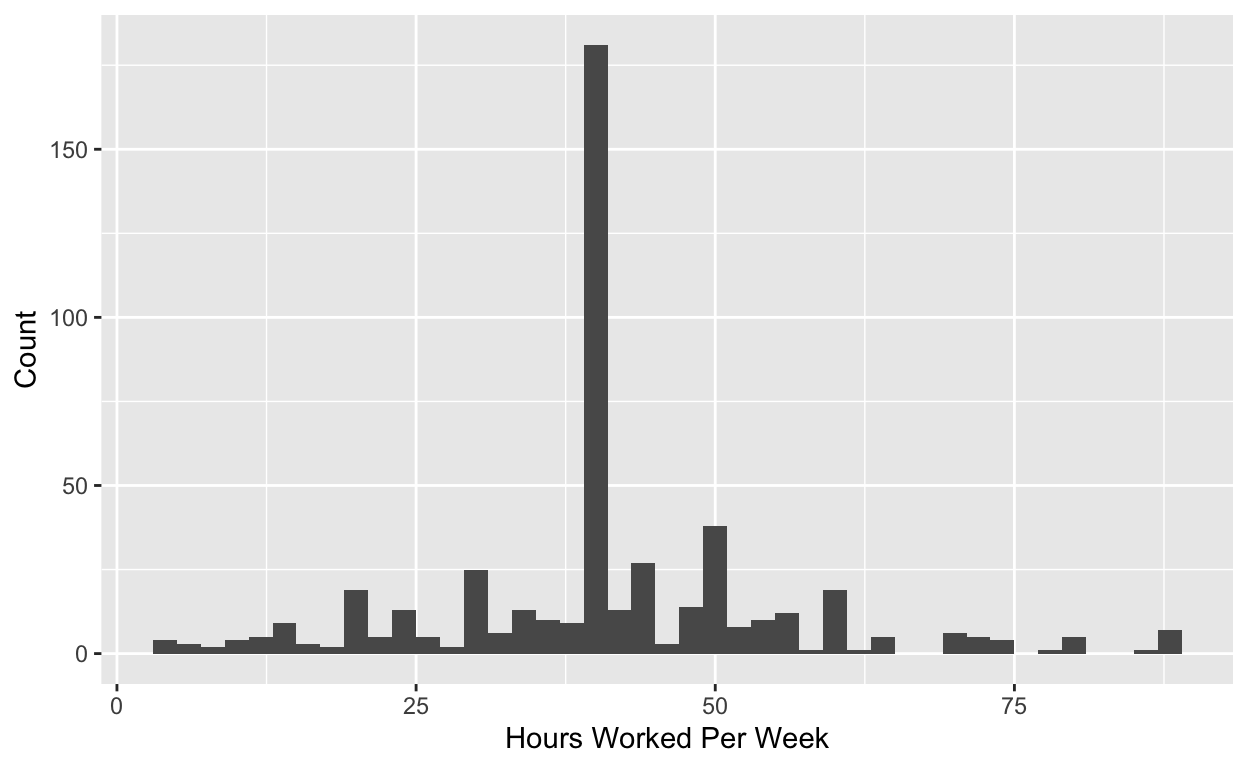
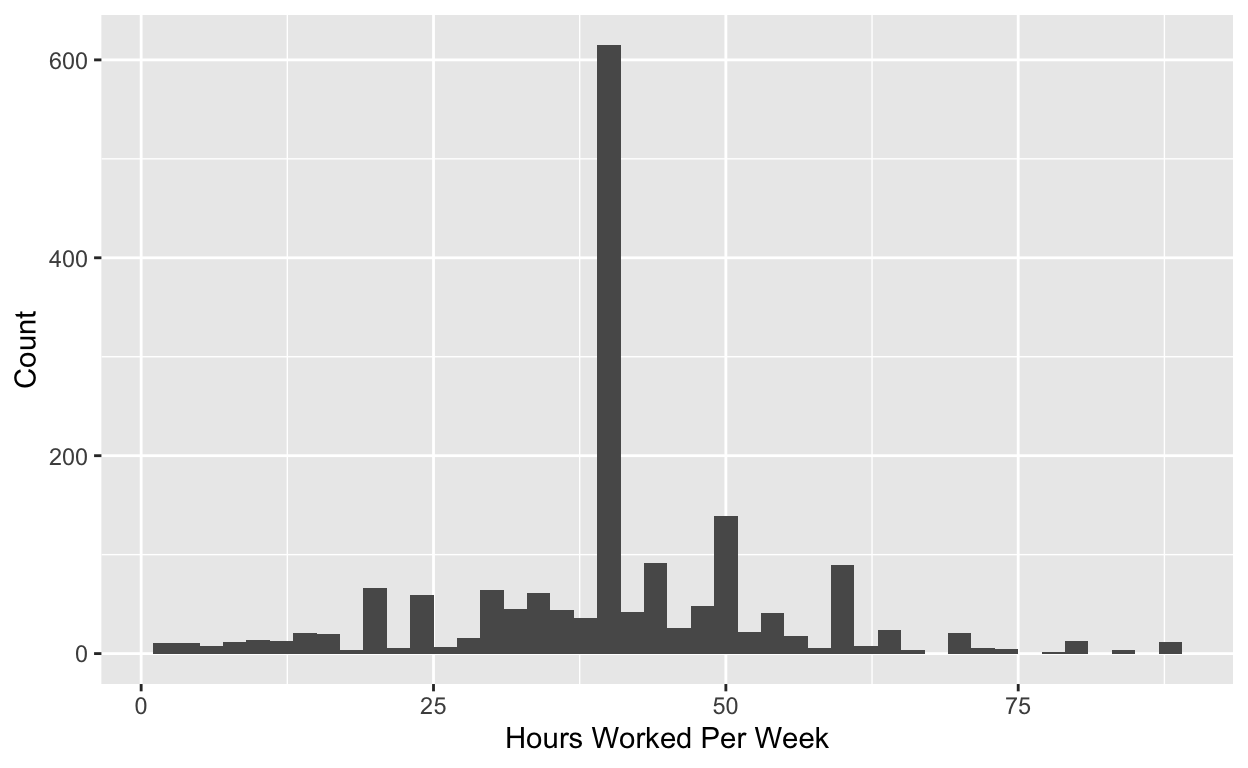
run

diff --git a/inference/clt_inference.html b/inference/clt_inference.html
@@ -116,6 +116,7 @@ $(document).ready(function () {
 
 <div class="topics">
 
+<p>This is still a bit rough! Gaps I plan to fill in are outlined below.</p>
 <div id="section-introduction" class="section level2">
 <h2>Introduction</h2>
 <p>Learning Objectives.</p>
@@ -140,7 +141,7 @@ library(infer)</code></pre>
 hours_summary</code></pre>
 <div data-pagedtable="false">
 <script data-pagedtable-source type="application/json">
-{"columns":[{"label":["xbar"],"name":[1],"type":["dbl"],"align":["right"]},{"label":["s"],"name":[2],"type":["dbl"],"align":["right"]},{"label":["n"],"name":[3],"type":["int"],"align":["right"]}],"data":[{"1":"41.382","2":"14.81996","3":"500"}],"options":{"columns":{"min":{},"max":[10]},"rows":{"min":[10],"max":[10]},"pages":{}}}
+{"columns":[{"label":["xbar"],"name":[1],"type":["dbl"],"align":["right"]},{"label":["s"],"name":[2],"type":["dbl"],"align":["right"]},{"label":["n"],"name":[3],"type":["int"],"align":["right"]}],"data":[{"1":"NA","2":"NA","3":"3000"}],"options":{"columns":{"min":{},"max":[10]},"rows":{"min":[10],"max":[10]},"pages":{}}}
   </script>
 </div>
 <pre class="r"><code>ggplot(data = gss, aes(x = hours)) + 
@@ -165,13 +166,13 @@ xbar &lt;- hours_summary %&gt;% pull(xbar)</code></pre>
 <pre class="r"><code>df &lt;- n - 1</code></pre>
 <p>Finally, find the <span class="math inline">\(p\)</span>-value.</p>
 <pre class="r"><code>pt(t, df, lower.tail = FALSE)</code></pre>
-<pre><code>## [1] 0.0187798</code></pre>
+<pre><code>## [1] NA</code></pre>
 <p>The <span class="math inline">\(p\)</span>-value is small, so we reject the null hypothesis. These data provide sufficient evidence at <span class="math inline">\(\alpha = 0.05\)</span> to conclude that Americans, on average, work more than 40 hours per week.</p>
 <p>Is the difference practically significant?</p>
 <p>Now construct a confidence interval for the mean. Do you expect the confidence interval to include 40?</p>
 <pre class="r"><code>t_star &lt;- qt(.95, df)
 xbar + c(-1,1) * t_star * se</code></pre>
-<pre><code>## [1] 40.28981 42.47419</code></pre>
+<pre><code>## [1] NA NA</code></pre>
 <p>We can easily use the <code>t_test</code> function in the infer package to conduct a <span class="math inline">\(t\)</span>-test. To do this we need to specify the following:</p>
 <ul>
 <li><code>x</code>: a tibble</li>
@@ -187,7 +188,7 @@ xbar + c(-1,1) * t_star * se</code></pre>
        conf_level = 0.95)</code></pre>
 <div data-pagedtable="false">
 <script data-pagedtable-source type="application/json">
-{"columns":[{"label":["statistic"],"name":[1],"type":["dbl"],"align":["right"]},{"label":["t_df"],"name":[2],"type":["dbl"],"align":["right"]},{"label":["p_value"],"name":[3],"type":["dbl"],"align":["right"]},{"label":["alternative"],"name":[4],"type":["chr"],"align":["left"]},{"label":["lower_ci"],"name":[5],"type":["dbl"],"align":["right"]},{"label":["upper_ci"],"name":[6],"type":["dbl"],"align":["right"]}],"data":[{"1":"2.085191","2":"499","3":"0.03755959","4":"two.sided","5":"40.07984","6":"42.68416","_row":"t"}],"options":{"columns":{"min":{},"max":[10]},"rows":{"min":[10],"max":[10]},"pages":{}}}
+{"columns":[{"label":["statistic"],"name":[1],"type":["dbl"],"align":["right"]},{"label":["t_df"],"name":[2],"type":["dbl"],"align":["right"]},{"label":["p_value"],"name":[3],"type":["dbl"],"align":["right"]},{"label":["alternative"],"name":[4],"type":["chr"],"align":["left"]},{"label":["lower_ci"],"name":[5],"type":["dbl"],"align":["right"]},{"label":["upper_ci"],"name":[6],"type":["dbl"],"align":["right"]}],"data":[{"1":"2.310373","2":"1755","3":"0.020983","4":"two.sided","5":"40.11667","6":"41.42775","_row":"t"}],"options":{"columns":{"min":{},"max":[10]},"rows":{"min":[10],"max":[10]},"pages":{}}}
   </script>
 </div>
 </div>
@@ -227,7 +228,7 @@ session$onSessionEnded(function() {
 <!--/html_preserve-->
 <!--html_preserve-->
 <script type="application/shiny-prerendered" data-context="execution_dependencies">
-{"type":"list","attributes":{"names":{"type":"character","attributes":{},"value":["packages"]}},"value":[{"type":"list","attributes":{"names":{"type":"character","attributes":{},"value":["packages","version"]},"class":{"type":"character","attributes":{},"value":["data.frame"]},"row.names":{"type":"integer","attributes":{},"value":[1,2,3,4,5,6,7,8,9,10,11,12,13,14,15,16,17,18,19,20,21,22,23,24,25,26,27,28,29,30,31,32,33,34,35,36,37,38,39,40,41,42,43,44,45,46,47,48,49,50,51,52,53,54,55,56,57,58,59,60,61,62,63,64,65,66,67,68,69,70,71,72,73,74,75,76,77,78,79,80,81,82]}},"value":[{"type":"character","attributes":{},"value":["assertthat","backports","base","blob","broom","cellranger","cli","colorspace","compiler","crayon","datasets","DBI","dbplyr","digest","dplyr","ellipsis","evaluate","fansi","farver","fastmap","forcats","fs","generics","ggplot2","glue","graphics","grDevices","grid","gtable","haven","hms","htmltools","htmlwidgets","httpuv","httr","infer","jsonlite","knitr","labeling","later","lattice","learnr","lifecycle","lubridate","magrittr","markdown","methods","mime","modelr","munsell","nlme","pillar","pkgconfig","promises","purrr","R6","Rcpp","readr","readxl","reprex","rlang","rmarkdown","rprojroot","rstudioapi","rvest","scales","shiny","stats","stringi","stringr","tibble","tidyr","tidyselect","tidyverse","tools","utils","vctrs","withr","xfun","xml2","xtable","yaml"]},{"type":"character","attributes":{},"value":["0.2.1","1.1.8","4.0.2","1.2.1","0.5.6","1.1.0","2.0.2","1.4-1","4.0.2","1.3.4","4.0.2","1.1.0","1.4.4","0.6.25","1.0.0","0.3.1","0.14","0.4.1","2.0.3","1.0.1","0.5.0","1.4.2","0.0.2","3.3.2","1.4.1","4.0.2","4.0.2","4.0.2","0.3.0","2.3.1","0.5.3","0.5.0","1.5.1","1.5.4","1.4.1","0.5.3","1.7.0","1.29","0.3","1.1.0.1","0.20-41","0.10.1","0.2.0","1.7.9","1.5","1.1","4.0.2","0.9","0.1.8","0.5.0","3.1-148","1.4.4","2.0.3","1.1.1","0.3.4","2.4.1","1.0.5.1","1.3.1","1.3.1","0.3.0","0.4.6","2.3","1.3-2","0.11","0.3.5","1.1.1","1.5.0","4.0.2","1.4.6","1.4.0","3.0.2","1.1.0","1.1.0","1.3.0","4.0.2","4.0.2","0.3.1","2.2.0","0.15","1.3.2","1.8-4","2.2.1"]}]}]}
+{"type":"list","attributes":{"names":{"type":"character","attributes":{},"value":["packages"]}},"value":[{"type":"list","attributes":{"names":{"type":"character","attributes":{},"value":["packages","version"]},"class":{"type":"character","attributes":{},"value":["data.frame"]},"row.names":{"type":"integer","attributes":{},"value":[1,2,3,4,5,6,7,8,9,10,11,12,13,14,15,16,17,18,19,20,21,22,23,24,25,26,27,28,29,30,31,32,33,34,35,36,37,38,39,40,41,42,43,44,45,46,47,48,49,50,51,52,53,54,55,56,57,58,59,60,61,62,63,64,65,66,67,68,69,70,71,72,73,74,75,76,77,78,79,80,81]}},"value":[{"type":"character","attributes":{},"value":["assertthat","backports","base","broom","cellranger","cli","colorspace","compiler","crayon","datasets","DBI","dbplyr","digest","dplyr","ellipsis","evaluate","fansi","farver","fastmap","forcats","fs","generics","ggplot2","glue","graphics","grDevices","grid","gtable","haven","hms","htmltools","htmlwidgets","httpuv","httr","infer","jsonlite","knitr","labeling","later","lattice","learnr","lifecycle","lubridate","magrittr","markdown","methods","mime","modelr","munsell","nlme","pillar","pkgconfig","promises","purrr","R6","Rcpp","readr","readxl","reprex","rlang","rmarkdown","rprojroot","rstudioapi","rvest","scales","shiny","stats","stringi","stringr","tibble","tidyr","tidyselect","tidyverse","tools","utils","vctrs","withr","xfun","xml2","xtable","yaml"]},{"type":"character","attributes":{},"value":["0.2.1","1.1.8","4.0.0","0.5.6","1.1.0","2.0.2","1.4-1","4.0.0","1.3.4","4.0.0","1.1.0","1.4.3","0.6.25","1.0.0","0.3.1","0.14","0.4.1","2.0.3","1.0.1","0.5.0","1.4.2","0.0.2","3.3.2","1.4.1","4.0.0","4.0.0","4.0.0","0.3.0","2.2.0","0.5.3","0.5.0","1.5.1","1.5.4","1.4.1","0.5.1","1.7.0","1.29","0.3","1.1.0.1","0.20-41","0.10.1","0.2.0","1.7.8","1.5","1.1","4.0.0","0.9","0.1.7","0.5.0","3.1-147","1.4.6","2.0.3","1.1.1","0.3.4","2.4.1","1.0.5","1.3.1","1.3.1","0.3.0","0.4.7","2.3","1.3-2","0.11","0.3.5","1.1.1","1.5.0","4.0.0","1.4.6","1.4.0","3.0.2","1.1.0","1.1.0","1.3.0","4.0.0","4.0.0","0.3.1","2.2.0","0.15","1.3.2","1.8-4","2.2.1"]}]}]}
 </script>
 <!--/html_preserve-->
 </div>

diff --git a/inference/sim_inference.html b/inference/sim_inference.html
@@ -13,7 +13,7 @@
 <meta name="progressive" content="false" />
 <meta name="allow-skip" content="true" />
 
-<title>(Rough) Simulated-Based Inference using Infer</title>
+<title>(Rough) Simulation-Based Inference using Infer</title>
 
 
 <!-- highlightjs -->
@@ -116,6 +116,7 @@ $(document).ready(function () {
 
 <div class="topics">
 
+<p>This is still a bit rough! Gaps I plan to fill in are outlined below.</p>
 <div id="section-introduction" class="section level2">
 <h2>Introduction</h2>
 <p>In this tutorial you will learn the basics of simulation-based inference using the infer package. To begin we load the necessary packages.</p>
@@ -282,7 +283,7 @@ session$onSessionEnded(function() {
 <!--/html_preserve-->
 <!--html_preserve-->
 <script type="application/shiny-prerendered" data-context="execution_dependencies">
-{"type":"list","attributes":{"names":{"type":"character","attributes":{},"value":["packages"]}},"value":[{"type":"list","attributes":{"names":{"type":"character","attributes":{},"value":["packages","version"]},"class":{"type":"character","attributes":{},"value":["data.frame"]},"row.names":{"type":"integer","attributes":{},"value":[1,2,3,4,5,6,7,8,9,10,11,12,13,14,15,16,17,18,19,20,21,22,23,24,25,26,27,28,29,30,31,32,33,34,35,36,37,38,39,40,41,42,43,44,45,46,47,48,49,50,51,52,53,54,55,56,57,58,59,60,61,62,63,64,65,66,67,68,69,70,71,72,73,74,75,76,77,78,79,80,81,82,83]}},"value":[{"type":"character","attributes":{},"value":["assertthat","backports","base","blob","broom","cellranger","cli","colorspace","compiler","crayon","datasets","DBI","dbplyr","digest","dplyr","ellipsis","evaluate","fansi","farver","fastmap","forcats","fs","generics","ggplot2","glue","graphics","grDevices","grid","gtable","haven","hms","htmltools","htmlwidgets","httpuv","httr","infer","jsonlite","knitr","labeling","later","lattice","learnr","lifecycle","lubridate","magrittr","markdown","methods","mime","modelr","munsell","nlme","pillar","pkgconfig","promises","purrr","R6","Rcpp","readr","readxl","reprex","rlang","rmarkdown","rprojroot","rstudioapi","rvest","scales","shiny","stats","stringi","stringr","tibble","tidyr","tidyselect","tidyverse","tools","utf8","utils","vctrs","withr","xfun","xml2","xtable","yaml"]},{"type":"character","attributes":{},"value":["0.2.1","1.1.8","4.0.2","1.2.1","0.5.6","1.1.0","2.0.2","1.4-1","4.0.2","1.3.4","4.0.2","1.1.0","1.4.4","0.6.25","1.0.0","0.3.1","0.14","0.4.1","2.0.3","1.0.1","0.5.0","1.4.2","0.0.2","3.3.2","1.4.1","4.0.2","4.0.2","4.0.2","0.3.0","2.3.1","0.5.3","0.5.0","1.5.1","1.5.4","1.4.1","0.5.3","1.7.0","1.29","0.3","1.1.0.1","0.20-41","0.10.1","0.2.0","1.7.9","1.5","1.1","4.0.2","0.9","0.1.8","0.5.0","3.1-148","1.4.4","2.0.3","1.1.1","0.3.4","2.4.1","1.0.5.1","1.3.1","1.3.1","0.3.0","0.4.6","2.3","1.3-2","0.11","0.3.5","1.1.1","1.5.0","4.0.2","1.4.6","1.4.0","3.0.2","1.1.0","1.1.0","1.3.0","4.0.2","1.1.4","4.0.2","0.3.1","2.2.0","0.15","1.3.2","1.8-4","2.2.1"]}]}]}
+{"type":"list","attributes":{"names":{"type":"character","attributes":{},"value":["packages"]}},"value":[{"type":"list","attributes":{"names":{"type":"character","attributes":{},"value":["packages","version"]},"class":{"type":"character","attributes":{},"value":["data.frame"]},"row.names":{"type":"integer","attributes":{},"value":[1,2,3,4,5,6,7,8,9,10,11,12,13,14,15,16,17,18,19,20,21,22,23,24,25,26,27,28,29,30,31,32,33,34,35,36,37,38,39,40,41,42,43,44,45,46,47,48,49,50,51,52,53,54,55,56,57,58,59,60,61,62,63,64,65,66,67,68,69,70,71,72,73,74,75,76,77,78,79,80,81,82]}},"value":[{"type":"character","attributes":{},"value":["assertthat","backports","base","broom","cellranger","cli","colorspace","compiler","crayon","datasets","DBI","dbplyr","digest","dplyr","ellipsis","evaluate","fansi","farver","fastmap","forcats","fs","generics","ggplot2","glue","graphics","grDevices","grid","gtable","haven","hms","htmltools","htmlwidgets","httpuv","httr","infer","jsonlite","knitr","labeling","later","lattice","learnr","lifecycle","lubridate","magrittr","markdown","methods","mime","modelr","munsell","nlme","pillar","pkgconfig","promises","purrr","R6","Rcpp","readr","readxl","reprex","rlang","rmarkdown","rprojroot","rstudioapi","rvest","scales","shiny","stats","stringi","stringr","tibble","tidyr","tidyselect","tidyverse","tools","utf8","utils","vctrs","withr","xfun","xml2","xtable","yaml"]},{"type":"character","attributes":{},"value":["0.2.1","1.1.8","4.0.0","0.5.6","1.1.0","2.0.2","1.4-1","4.0.0","1.3.4","4.0.0","1.1.0","1.4.3","0.6.25","1.0.0","0.3.1","0.14","0.4.1","2.0.3","1.0.1","0.5.0","1.4.2","0.0.2","3.3.2","1.4.1","4.0.0","4.0.0","4.0.0","0.3.0","2.2.0","0.5.3","0.5.0","1.5.1","1.5.4","1.4.1","0.5.1","1.7.0","1.29","0.3","1.1.0.1","0.20-41","0.10.1","0.2.0","1.7.8","1.5","1.1","4.0.0","0.9","0.1.7","0.5.0","3.1-147","1.4.6","2.0.3","1.1.1","0.3.4","2.4.1","1.0.5","1.3.1","1.3.1","0.3.0","0.4.7","2.3","1.3-2","0.11","0.3.5","1.1.1","1.5.0","4.0.0","1.4.6","1.4.0","3.0.2","1.1.0","1.1.0","1.3.0","4.0.0","1.1.4","4.0.0","0.3.1","2.2.0","0.15","1.3.2","1.8-4","2.2.1"]}]}]}
 </script>
 <!--/html_preserve-->
 </div>
@@ -296,7 +297,7 @@ session$onSessionEnded(function() {
 
 <!-- begin doc-metadata -->
 <div id="doc-metadata">
-<h2 class="title toc-ignore" style="display:none;">(Rough) Simulated-Based Inference using Infer</h2>
+<h2 class="title toc-ignore" style="display:none;">(Rough) Simulation-Based Inference using Infer</h2>
 </div>
 <!-- end doc-metadata -->
 

diff --git a/inference/bootstrap.html b/inference/bootstrap.html
@@ -182,7 +182,7 @@ boot_dist &lt;- verizon_clec %&gt;%
 <pre class="r"><code>get_ci(boot_dist, level  = 0.95)</code></pre>
 <div data-pagedtable="false">
 <script data-pagedtable-source type="application/json">
-{"columns":[{"label":["lower_ci"],"name":[1],"type":["dbl"],"align":["right"]},{"label":["upper_ci"],"name":[2],"type":["dbl"],"align":["right"]}],"data":[{"1":"10.18112","2":"25.68176"}],"options":{"columns":{"min":{},"max":[10]},"rows":{"min":[10],"max":[10]},"pages":{}}}
+{"columns":[{"label":["2.5%"],"name":[1],"type":["dbl"],"align":["right"]},{"label":["97.5%"],"name":[2],"type":["dbl"],"align":["right"]}],"data":[{"1":"10.18112","2":"25.68176","_row":"2.5%"}],"options":{"columns":{"min":{},"max":[10]},"rows":{"min":[10],"max":[10]},"pages":{}}}
   </script>
 </div>
 <p>Finally, let’s visualize the confidence interval on the bootstrap distribution.</p>
@@ -247,7 +247,7 @@ session$onSessionEnded(function() {
 <!--/html_preserve-->
 <!--html_preserve-->
 <script type="application/shiny-prerendered" data-context="execution_dependencies">
-{"type":"list","attributes":{"names":{"type":"character","attributes":{},"value":["packages"]}},"value":[{"type":"list","attributes":{"names":{"type":"character","attributes":{},"value":["packages","version"]},"class":{"type":"character","attributes":{},"value":["data.frame"]},"row.names":{"type":"integer","attributes":{},"value":[1,2,3,4,5,6,7,8,9,10,11,12,13,14,15,16,17,18,19,20,21,22,23,24,25,26,27,28,29,30,31,32,33,34,35,36,37,38,39,40,41,42,43,44,45,46,47,48,49,50,51,52,53,54,55,56,57,58,59,60,61,62,63,64,65,66,67,68,69,70,71,72,73,74,75,76,77,78,79,80,81,82]}},"value":[{"type":"character","attributes":{},"value":["assertthat","backports","base","blob","broom","cellranger","cli","colorspace","compiler","crayon","datasets","DBI","dbplyr","digest","dplyr","ellipsis","evaluate","fansi","farver","fastmap","forcats","fs","generics","ggplot2","glue","graphics","grDevices","grid","gtable","haven","hms","htmltools","htmlwidgets","httpuv","httr","infer","jsonlite","knitr","labeling","later","lattice","learnr","lifecycle","lubridate","magrittr","markdown","methods","mime","modelr","munsell","nlme","pillar","pkgconfig","promises","purrr","R6","Rcpp","readr","readxl","reprex","rlang","rmarkdown","rprojroot","rstudioapi","rvest","scales","shiny","stats","stringi","stringr","tibble","tidyr","tidyselect","tidyverse","tools","utils","vctrs","withr","xfun","xml2","xtable","yaml"]},{"type":"character","attributes":{},"value":["0.2.1","1.1.8","4.0.2","1.2.1","0.5.6","1.1.0","2.0.2","1.4-1","4.0.2","1.3.4","4.0.2","1.1.0","1.4.4","0.6.25","1.0.0","0.3.1","0.14","0.4.1","2.0.3","1.0.1","0.5.0","1.4.2","0.0.2","3.3.2","1.4.1","4.0.2","4.0.2","4.0.2","0.3.0","2.3.1","0.5.3","0.5.0","1.5.1","1.5.4","1.4.1","0.5.3","1.7.0","1.29","0.3","1.1.0.1","0.20-41","0.10.1","0.2.0","1.7.9","1.5","1.1","4.0.2","0.9","0.1.8","0.5.0","3.1-148","1.4.4","2.0.3","1.1.1","0.3.4","2.4.1","1.0.5.1","1.3.1","1.3.1","0.3.0","0.4.6","2.3","1.3-2","0.11","0.3.5","1.1.1","1.5.0","4.0.2","1.4.6","1.4.0","3.0.2","1.1.0","1.1.0","1.3.0","4.0.2","4.0.2","0.3.1","2.2.0","0.15","1.3.2","1.8-4","2.2.1"]}]}]}
+{"type":"list","attributes":{"names":{"type":"character","attributes":{},"value":["packages"]}},"value":[{"type":"list","attributes":{"names":{"type":"character","attributes":{},"value":["packages","version"]},"class":{"type":"character","attributes":{},"value":["data.frame"]},"row.names":{"type":"integer","attributes":{},"value":[1,2,3,4,5,6,7,8,9,10,11,12,13,14,15,16,17,18,19,20,21,22,23,24,25,26,27,28,29,30,31,32,33,34,35,36,37,38,39,40,41,42,43,44,45,46,47,48,49,50,51,52,53,54,55,56,57,58,59,60,61,62,63,64,65,66,67,68,69,70,71,72,73,74,75,76,77,78,79,80,81]}},"value":[{"type":"character","attributes":{},"value":["assertthat","backports","base","broom","cellranger","cli","colorspace","compiler","crayon","datasets","DBI","dbplyr","digest","dplyr","ellipsis","evaluate","fansi","farver","fastmap","forcats","fs","generics","ggplot2","glue","graphics","grDevices","grid","gtable","haven","hms","htmltools","htmlwidgets","httpuv","httr","infer","jsonlite","knitr","labeling","later","lattice","learnr","lifecycle","lubridate","magrittr","markdown","methods","mime","modelr","munsell","nlme","pillar","pkgconfig","promises","purrr","R6","Rcpp","readr","readxl","reprex","rlang","rmarkdown","rprojroot","rstudioapi","rvest","scales","shiny","stats","stringi","stringr","tibble","tidyr","tidyselect","tidyverse","tools","utils","vctrs","withr","xfun","xml2","xtable","yaml"]},{"type":"character","attributes":{},"value":["0.2.1","1.1.8","4.0.0","0.5.6","1.1.0","2.0.2","1.4-1","4.0.0","1.3.4","4.0.0","1.1.0","1.4.3","0.6.25","1.0.0","0.3.1","0.14","0.4.1","2.0.3","1.0.1","0.5.0","1.4.2","0.0.2","3.3.2","1.4.1","4.0.0","4.0.0","4.0.0","0.3.0","2.2.0","0.5.3","0.5.0","1.5.1","1.5.4","1.4.1","0.5.1","1.7.0","1.29","0.3","1.1.0.1","0.20-41","0.10.1","0.2.0","1.7.8","1.5","1.1","4.0.0","0.9","0.1.7","0.5.0","3.1-147","1.4.6","2.0.3","1.1.1","0.3.4","2.4.1","1.0.5","1.3.1","1.3.1","0.3.0","0.4.7","2.3","1.3-2","0.11","0.3.5","1.1.1","1.5.0","4.0.0","1.4.6","1.4.0","3.0.2","1.1.0","1.1.0","1.3.0","4.0.0","4.0.0","0.3.1","2.2.0","0.15","1.3.2","1.8-4","2.2.1"]}]}]}
 </script>
 <!--/html_preserve--></li>
 </ul>
